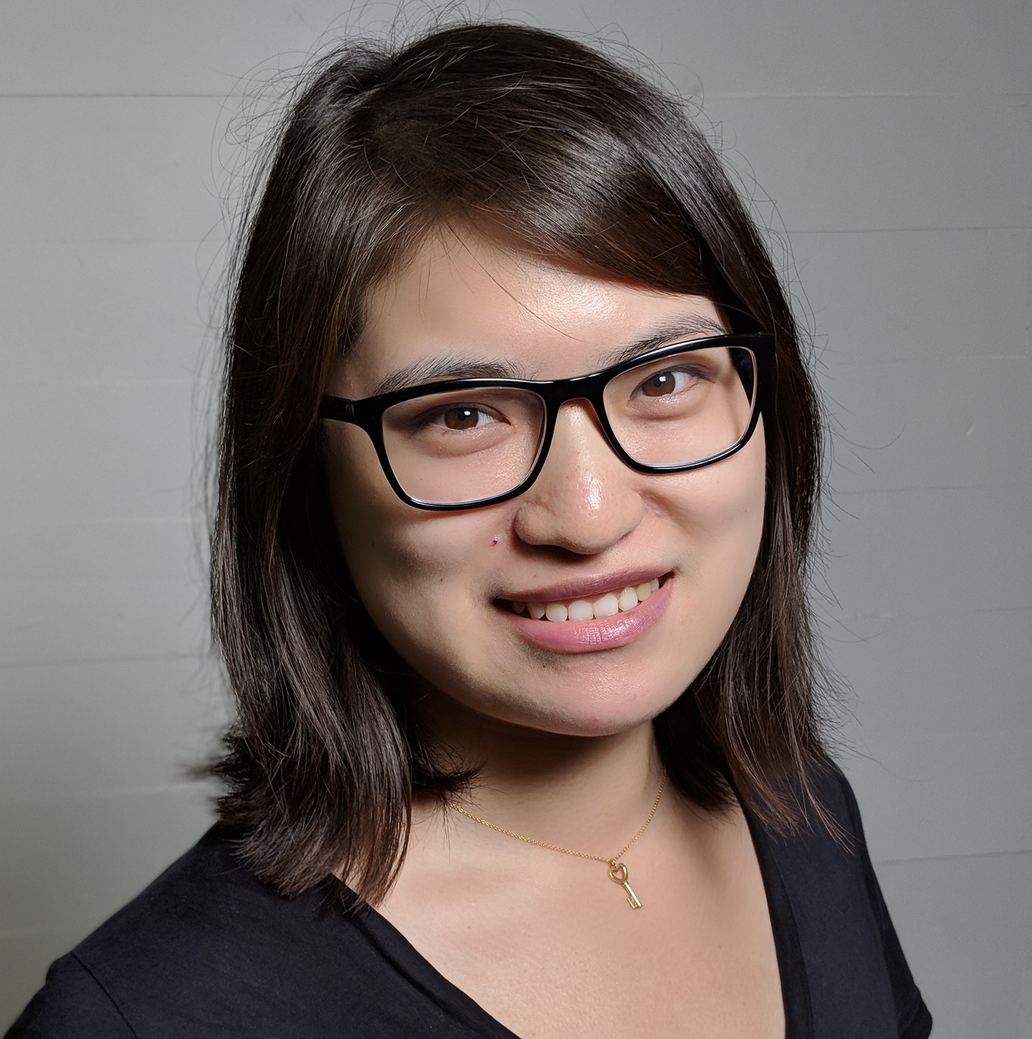
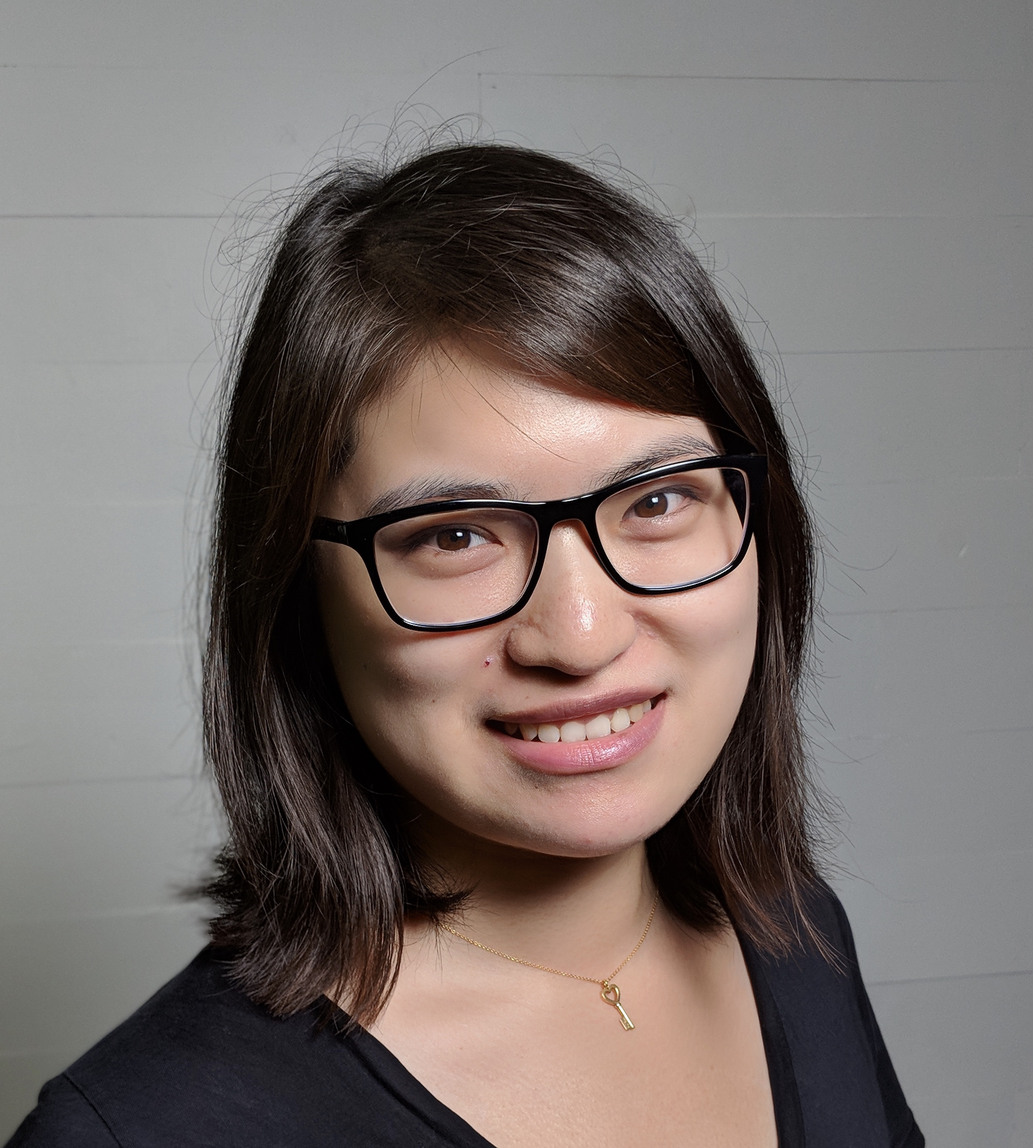
c

diff --git a/index.html b/index.html
@@ -16,7 +16,7 @@
     <div class="wrapper">
       <header>
         <h1>Yi Ding</h1>
-        <img width=150 src="images/profile2.JPG" title="Yi Ding"/>
+        <img width=200 src="images/profile2.JPG" title="Yi Ding"/>
     
     <p>
      <b>Contact info</b><br>
